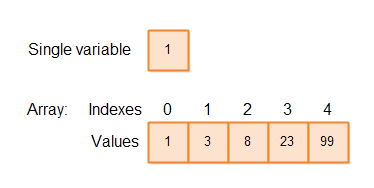
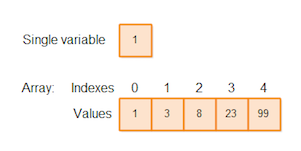
LinkedList v1.5.6

diff --git a/_posts/2017-09-25-Linked-Lists.md b/_posts/2017-09-25-Linked-Lists.md
@@ -18,7 +18,7 @@ So, what does it mean when we tell Arrays are `fixed size`? If you have hands on
 
 **Sequential** - Arrays store the data in contiguos memory locations. Well in the text books and many websites you would see the below diagram.
 
-![Array](http://wizard-of-white-magic.github.io/img/array.png =300*200)
+![Array](http://wizard-of-white-magic.github.io/img/array.png)
 
 <!--
 what are these locations exactly? What does `contiguos/sequential` mean? It means, that the `compiler` would in advance request for the `n` amount of space in `main memory` (RAM - Random Access Memory) `FYI RAM is the place, where all the programs at runtime runs or are executed` and the Operating System, in-turn being the `resource manager` allocate the requested `n` amount of space in the `main memory` here, the operating system makes sure that the space it is allocating for the program is all continous, next to each other, the boxes in the above diagram represent continous/contiguos blocks/chunks of memory in `RAM` hope this rings some bells, but what would Operating System do, if `n` amount of space we requested for is not availabe in the `main memory`? Operating System would just throw an `Insufficient Memory Exception` Exceptions are nothing but errors, but there are many differences to exceptions as compared to errors, but that is for another post, for now think of it as, the operating system would just throw an error at us. Even though the required `n` amount of space is present in RAM, but all spread out across the RAM and not continous, still we would not be able to utilize the space as it is not present continously. Now, isn't this in efficient usage of Main Memory??
